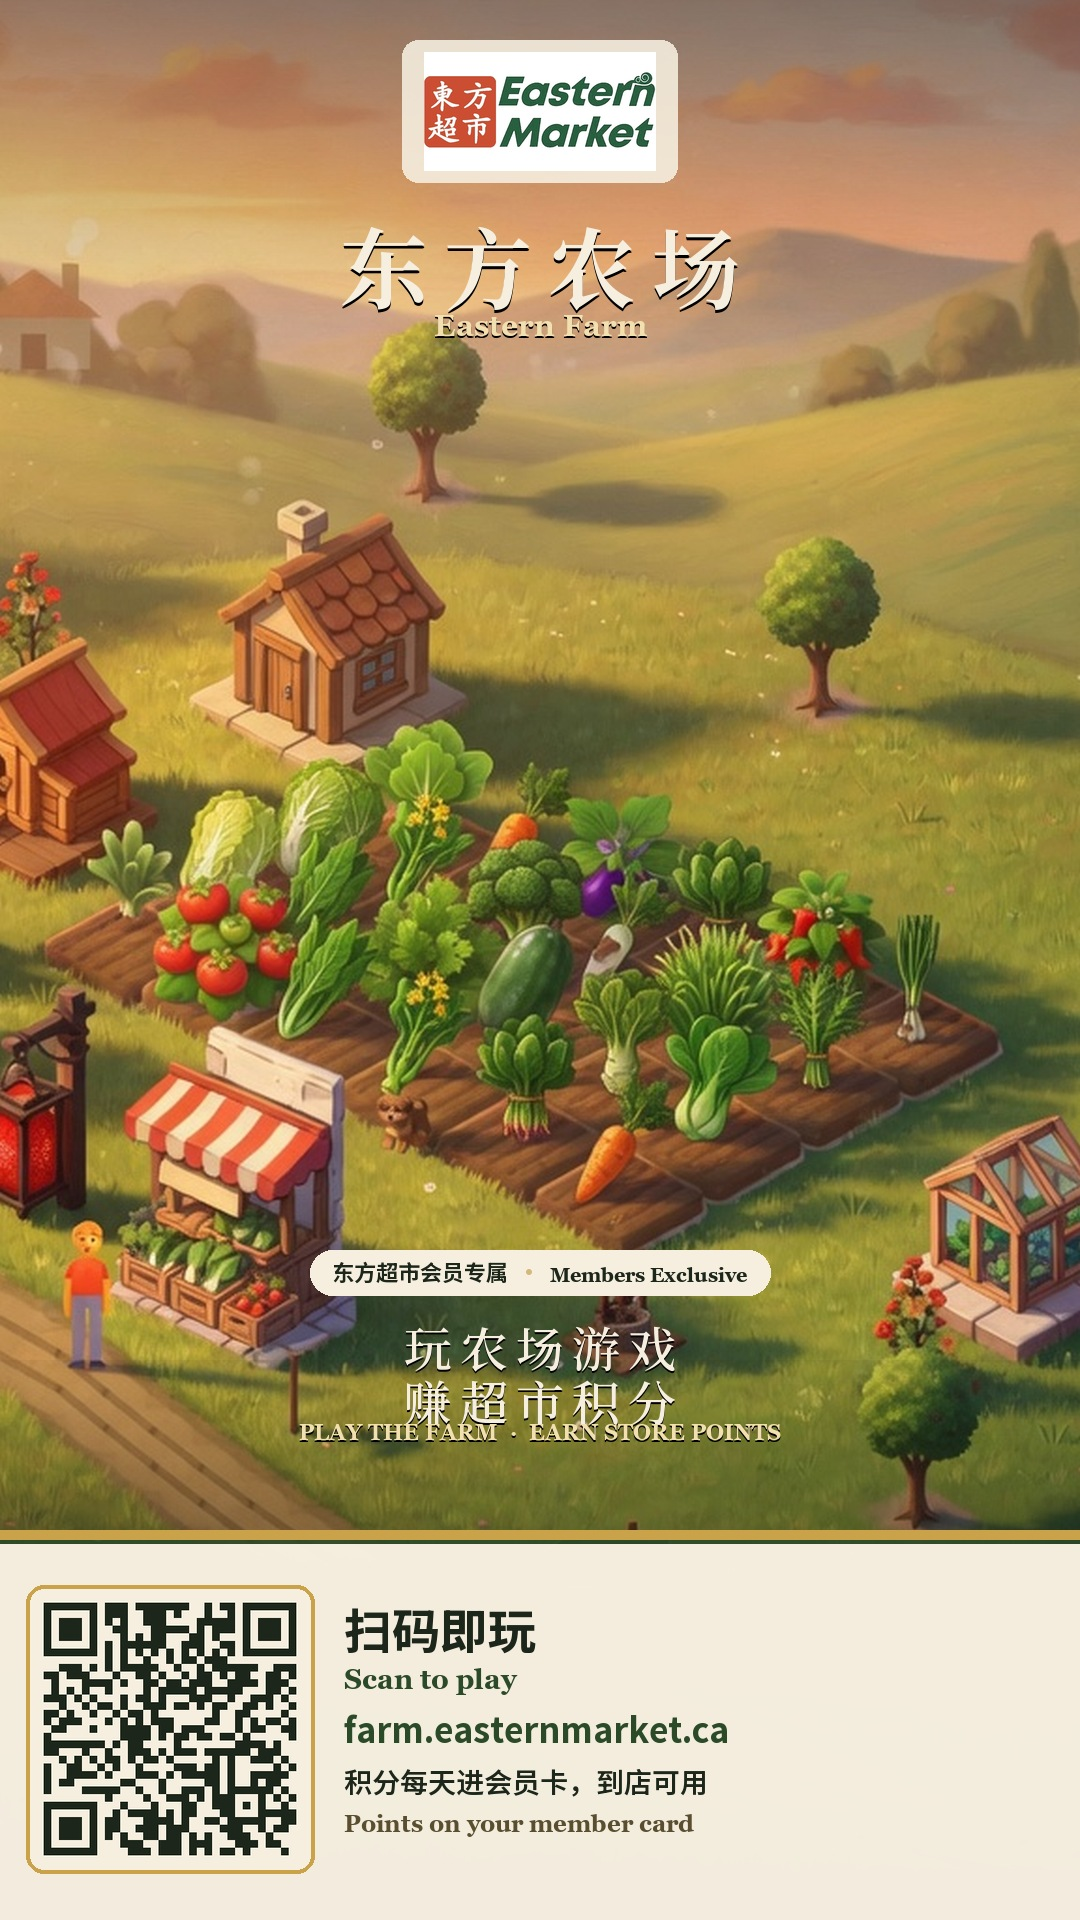
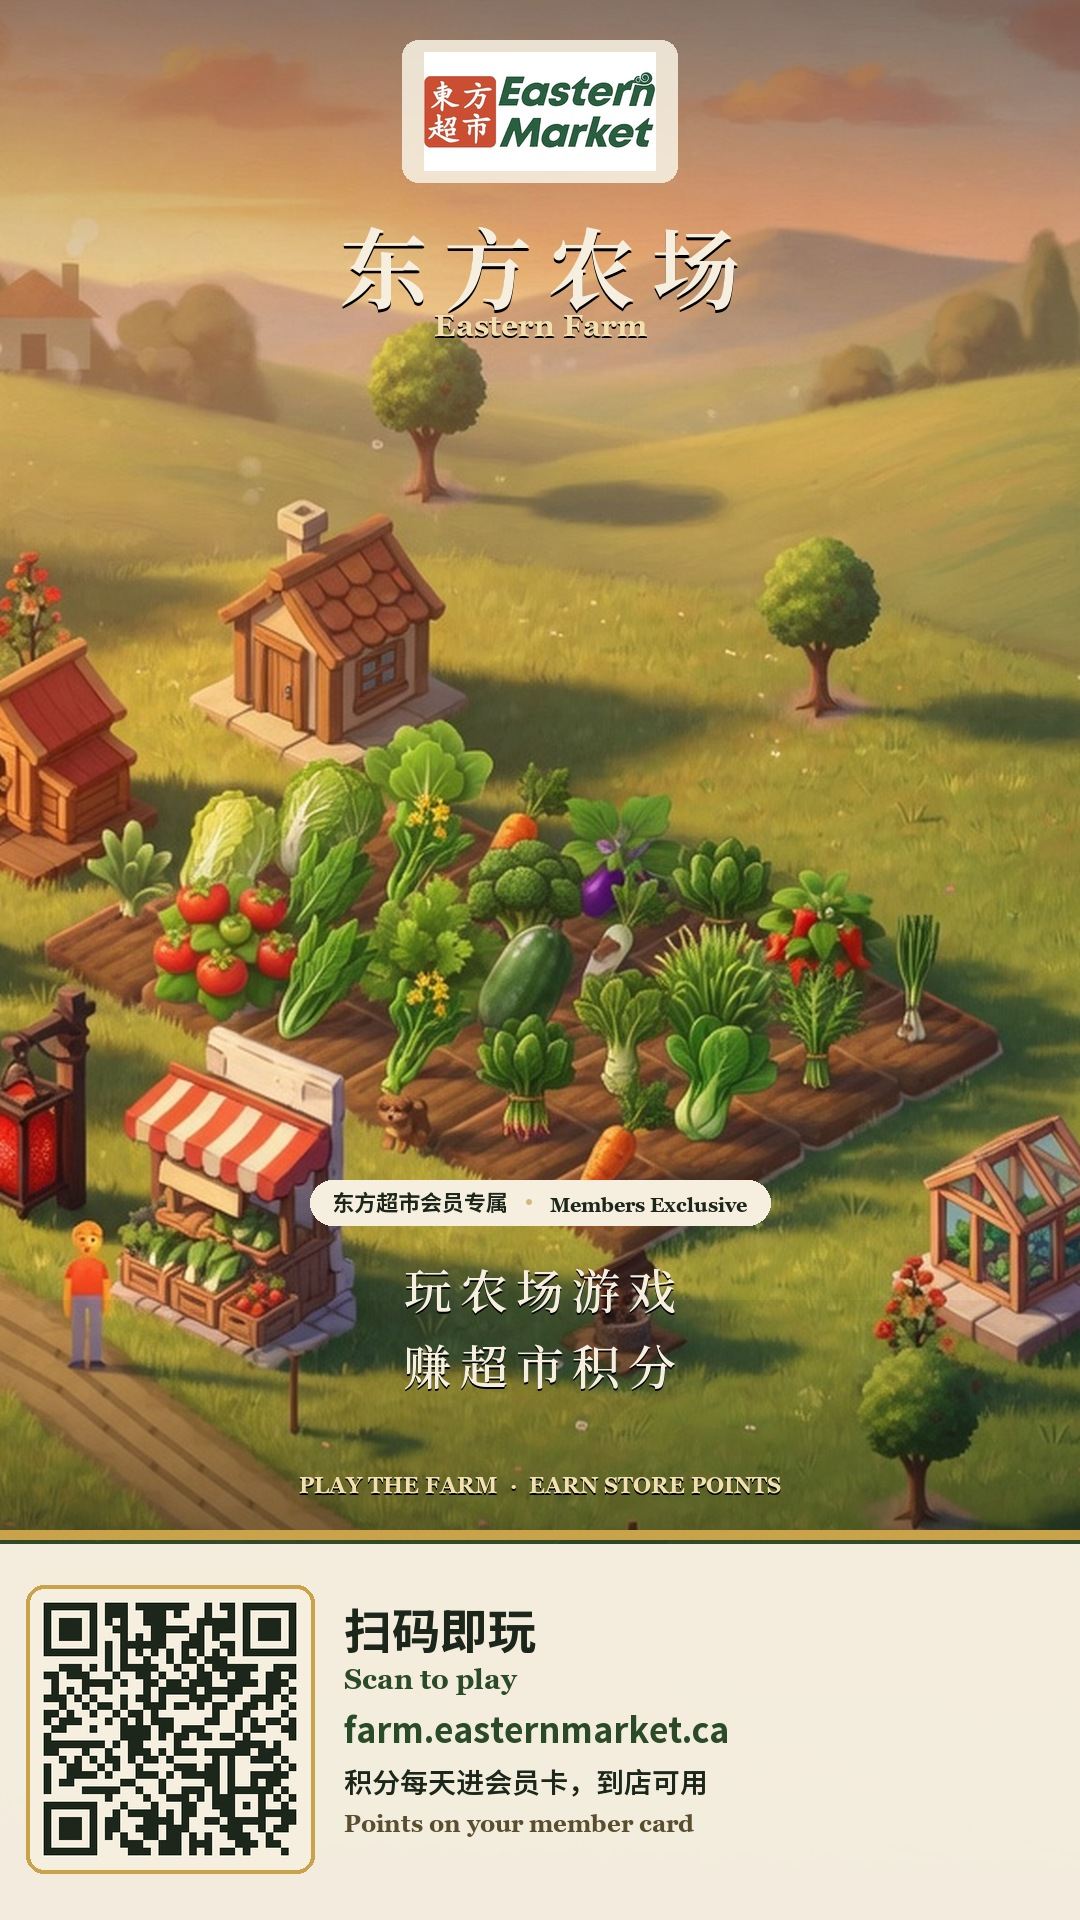
04c：英文利益句下移，与对联拉开，贴扫码栏上沿
只改这一版。胶囊 / 玩农场游戏 / 赚超市积分 / 英文 四层间距理开。

Changed region(s): [[0.275, 0.5938, 0.7333, 0.7812]]

diff --git a/scripts/_make_poster_onart_04.py b/scripts/_make_poster_onart_04.py
@@ -95,10 +95,15 @@ def variant_b():
 
 def variant_c():
     """只上移店名：东方农场上天；胶囊+对联仍贴扫码栏。"""
-    canvas, draw, W, H, f = base(380, 560)
+    canvas, draw, W, H, f = base(380, 620)
     draw_name(draw, 200, W, f)
-    by = kicker_pill(draw, H - 390 - 280, W, f['kick_zh'], f['kick_en'])
-    draw_couplet(draw, by + 16, W, f)
+    bar_top = H - 390
+    by = kicker_pill(draw, bar_top - 350, W, f['kick_zh'], f['kick_en'])
+    # 下区字阶：胶囊 → 空 → 对联两行拉开 → 再空一截 → 英文贴扫码栏上沿
+    spaced(draw, '玩农场游戏', by + 28, f['title'], CREAM, 8, W, shadow=(0, 2, (0, 0, 0, 140)))
+    spaced(draw, '赚超市积分', by + 104, f['title'], CREAM, 8, W, shadow=(0, 2, (0, 0, 0, 140)))
+    center(draw, 'PLAY THE FARM  ·  EARN STORE POINTS', bar_top - 58, f['en_line'],
+           (243, 224, 176), W, shadow=(0, 2, (0, 0, 0, 150)))
     save(scan_bar(canvas, W, H), 'poster-phone-onart-04c')
 
 
